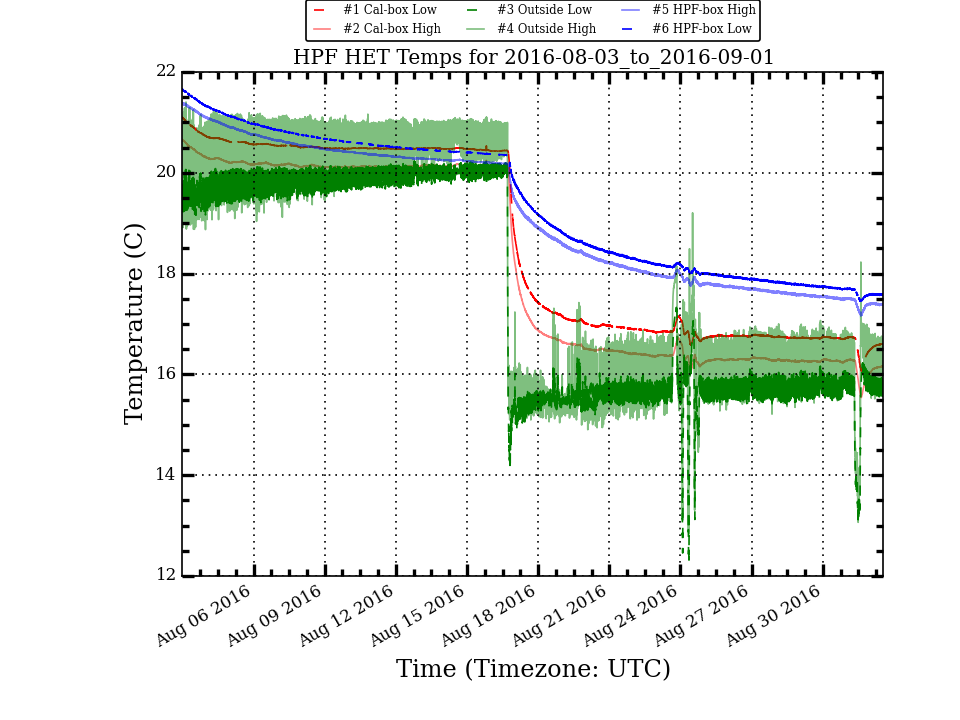
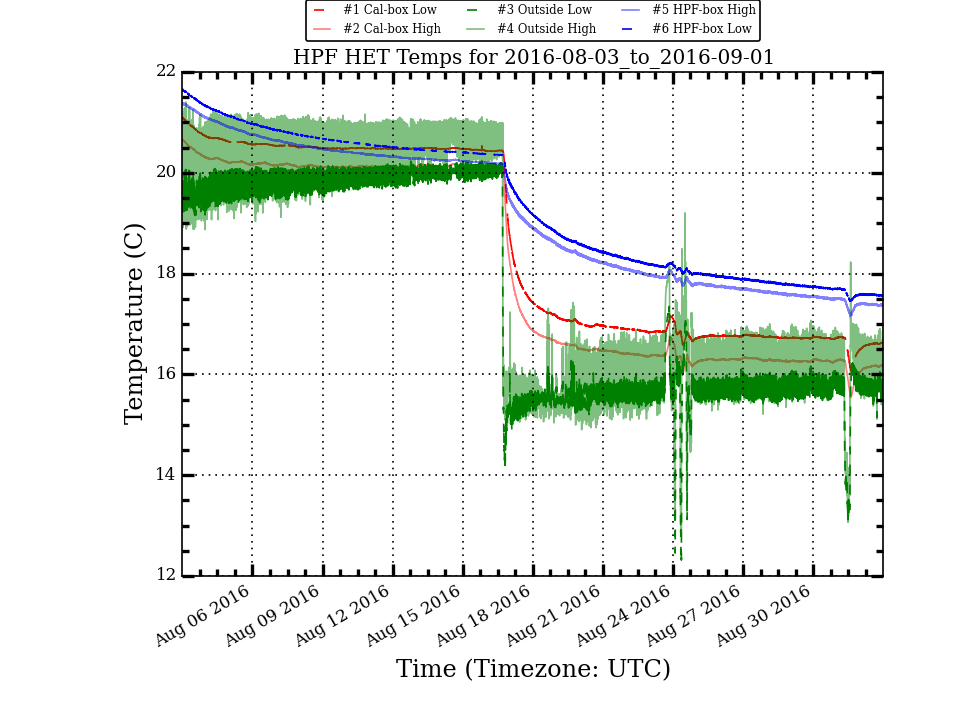
Update HPF Temp Plots

diff --git a/research/hpf_temps/plots/LakeShoreLogTotal_month_stats.html b/research/hpf_temps/plots/LakeShoreLogTotal_month_stats.html
@@ -10,54 +10,54 @@
  </TR>
  <TR>
   <TD>Cal_Low</TD>
-  <TD>18.615</TD>
-  <TD>1.832</TD>
-  <TD>17.537</TD>
+  <TD>18.584</TD>
+  <TD>1.834</TD>
+  <TD>17.416</TD>
   <TD>21.100</TD>
   <TD>16.074</TD>
   <TD>5.026</TD>
  </TR>
  <TR>
   <TD>Cal_High</TD>
-  <TD>18.183</TD>
-  <TD>1.881</TD>
-  <TD>16.970</TD>
+  <TD>18.153</TD>
+  <TD>1.883</TD>
+  <TD>16.861</TD>
   <TD>20.661</TD>
   <TD>15.544</TD>
   <TD>5.117</TD>
  </TR>
  <TR>
   <TD>Out_Low</TD>
-  <TD>17.608</TD>
-  <TD>2.155</TD>
-  <TD>15.965</TD>
+  <TD>17.580</TD>
+  <TD>2.151</TD>
+  <TD>15.944</TD>
   <TD>20.236</TD>
   <TD>12.302</TD>
   <TD>7.934</TD>
  </TR>
  <TR>
   <TD>Out_High</TD>
-  <TD>18.120</TD>
-  <TD>2.303</TD>
-  <TD>16.749</TD>
+  <TD>18.092</TD>
+  <TD>2.297</TD>
+  <TD>16.711</TD>
   <TD>21.404</TD>
   <TD>12.840</TD>
   <TD>8.564</TD>
  </TR>
  <TR>
   <TD>HPF_High</TD>
-  <TD>19.174</TD>
-  <TD>1.336</TD>
-  <TD>18.985</TD>
+  <TD>19.147</TD>
+  <TD>1.344</TD>
+  <TD>18.900</TD>
   <TD>21.395</TD>
   <TD>17.167</TD>
   <TD>4.228</TD>
  </TR>
  <TR>
   <TD>HPF_Low</TD>
-  <TD>19.379</TD>
-  <TD>1.337</TD>
-  <TD>19.261</TD>
+  <TD>19.352</TD>
+  <TD>1.345</TD>
+  <TD>19.160</TD>
   <TD>21.658</TD>
   <TD>17.439</TD>
   <TD>4.219</TD>

diff --git a/research/hpf_temps/plots/LakeShoreLogTotal_week_stats.html b/research/hpf_temps/plots/LakeShoreLogTotal_week_stats.html
@@ -10,26 +10,26 @@
  </TR>
  <TR>
   <TD>Cal_Low</TD>
-  <TD>16.689</TD>
-  <TD>0.132</TD>
-  <TD>16.730</TD>
+  <TD>16.685</TD>
+  <TD>0.129</TD>
+  <TD>16.728</TD>
   <TD>16.792</TD>
   <TD>16.074</TD>
   <TD>0.718</TD>
  </TR>
  <TR>
   <TD>Cal_High</TD>
-  <TD>16.229</TD>
-  <TD>0.142</TD>
-  <TD>16.273</TD>
+  <TD>16.225</TD>
+  <TD>0.138</TD>
+  <TD>16.271</TD>
   <TD>16.339</TD>
   <TD>15.544</TD>
   <TD>0.795</TD>
  </TR>
  <TR>
   <TD>Out_Low</TD>
-  <TD>15.694</TD>
-  <TD>0.422</TD>
+  <TD>15.698</TD>
+  <TD>0.410</TD>
   <TD>15.768</TD>
   <TD>16.224</TD>
   <TD>13.116</TD>
@@ -37,27 +37,27 @@
  </TR>
  <TR>
   <TD>Out_High</TD>
-  <TD>16.223</TD>
-  <TD>0.535</TD>
-  <TD>16.317</TD>
+  <TD>16.225</TD>
+  <TD>0.524</TD>
+  <TD>16.315</TD>
   <TD>18.229</TD>
   <TD>13.065</TD>
   <TD>5.164</TD>
  </TR>
  <TR>
   <TD>HPF_High</TD>
-  <TD>17.563</TD>
-  <TD>0.124</TD>
-  <TD>17.572</TD>
+  <TD>17.551</TD>
+  <TD>0.128</TD>
+  <TD>17.562</TD>
   <TD>17.765</TD>
   <TD>17.167</TD>
   <TD>0.598</TD>
  </TR>
  <TR>
   <TD>HPF_Low</TD>
-  <TD>17.759</TD>
-  <TD>0.118</TD>
-  <TD>17.768</TD>
+  <TD>17.747</TD>
+  <TD>0.123</TD>
+  <TD>17.757</TD>
   <TD>17.959</TD>
   <TD>17.439</TD>
   <TD>0.520</TD>
